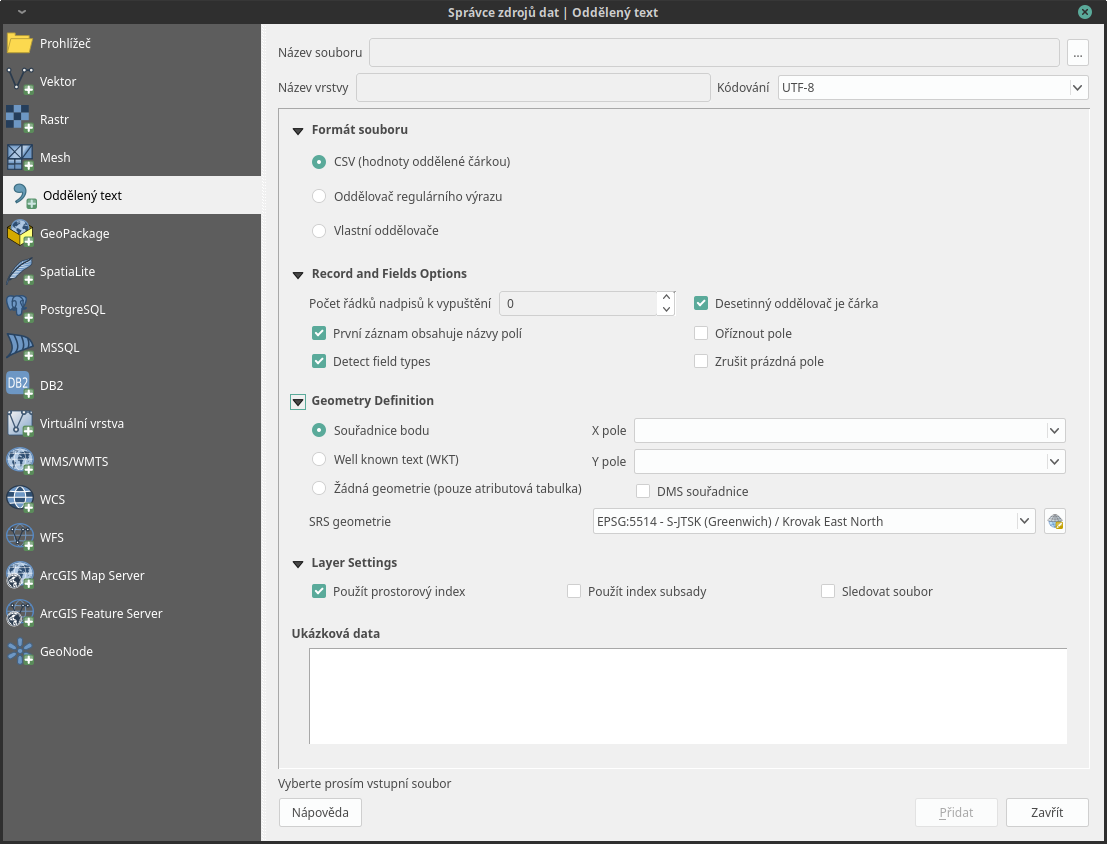
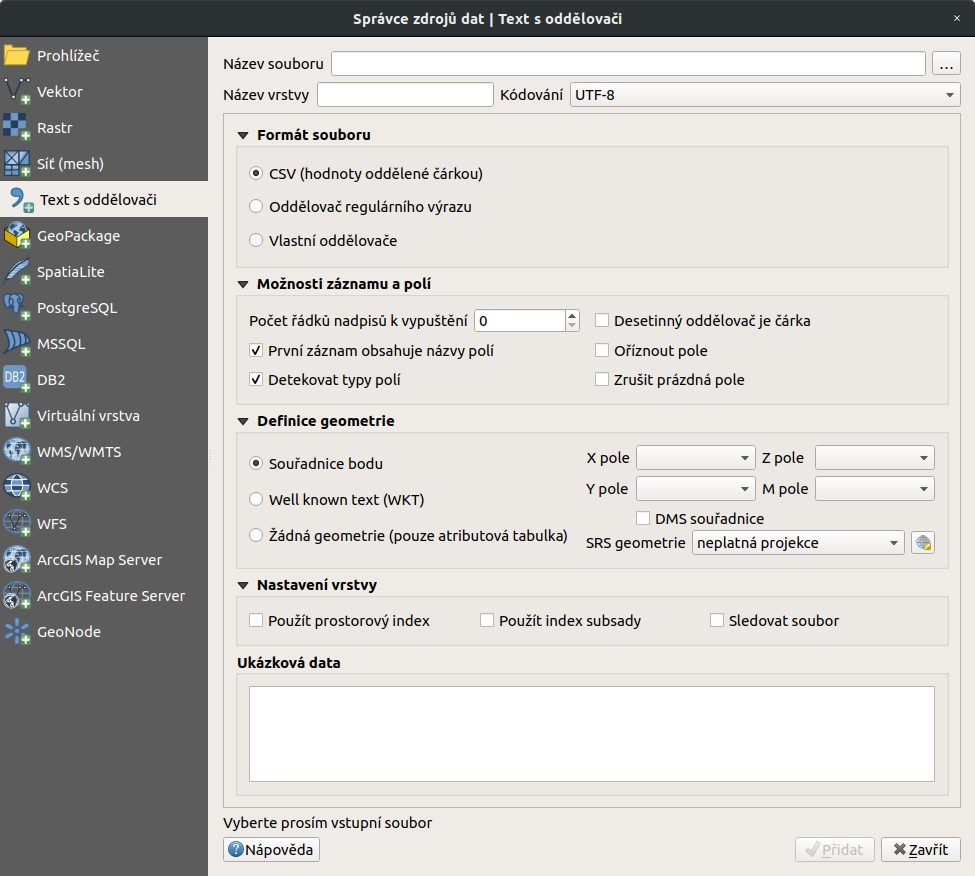
update and fixes:3_10 xy

Changed region(s): [[0.0, 0.0, 1.0, 1.0], [0.4923, 0.6777, 0.6462, 0.7393], [0.7385, 0.6777, 0.8615, 0.7393]]

diff --git a/vektorova_data/import_delim.rst b/vektorova_data/import_delim.rst
@@ -94,8 +94,6 @@ vrstvu s odděleným textem`.
 - :item:`Název vrstvy` - název nově vzniklé vrstvy
 - :item:`Formát souboru` |radiobuttonon| - vybereme typ oddělení hodnot
   v textovém souboru
-- :item:`Kódování` |selectstring| - vybereme kódování textu
-
 
     - |radiobuttonon| :sup:`CSV (hodnoty oddělené čárkou)` - standardní
       .csv soubor s hodnotami oddělenými čárkou
@@ -104,30 +102,29 @@ vrstvu s odděleným textem`.
     - |radiobuttonon| :sup:`Vlastní oddělovače` - výběr libovolného
       oddělovače
 
-- :item:`Možnost záznamu`
+- :item:`Kódování` |selectstring| - vybereme kódování textu
+- :item:`Možnosti záznamu a polí`
 
-    - :item:`Počet řádků k vypuštění` |selectnumber| - vynechá
+    - :item:`Počet řádků nadpisů k vypuštění` |selectnumber| - vynechá
       zadaný počet rádků na začátku
     - |checkbox| :item:`První záznam obsahuje názvy polí` - zaškrtneme,
       pokud máme v tabulce jako první řádek názvy sloupců
-
-- :item:`Record and Fields Options`
-
-    - |checkbox| :option:`Oříznout pole` - smaže přebytečné mezery v
-      datech např. na konci nebo začátku záznamu
-    - |checkbox| :option:`Zrušit prázdná pole` - odstraní prázdné sloupce
+    - |checkbox| :option:`Detekovat typy polí` - detekuje datový typ sloupce
     - |checkbox| :option:`Desetinný oddělovač je čárka` - zaškrtneme,
       pokud v datech nemáme oddělena desetinná čísla tečkou, ale čárkou
       (např. :numref:`xydatacsv`)
-    - |checkbox| :option:`Detect field types` - detekuje datový typ sloupce
+    - |checkbox| :option:`Oříznout pole` - smaže přebytečné mezery v
+      datech např. na konci nebo začátku záznamu
+    - |checkbox| :option:`Zrušit prázdná pole` - odstraní prázdné sloupce
 
-- :item:`Geometry definition`
+- :item:`Definice geometrie`
 
     - |radiobuttonon| :sup:`Souřadnice bodu` - body definovány souřadnicemi
       X a Y (XY Data)
 
-        - :option:`X pole`, `Y pole` |selectstring| - výběr sloupců,
-          ve kterých jsou zapsané souřadnice
+        - :option:`X pole`, :option:`Y pole`  |selectstring| - výběr sloupců,
+          ve kterých jsou zapsané souřadnice. :option:`Z pole`, :option:`M pole`
+          vybíráme, pokud data obsahují hodnoty `Z` a `M`
         - |checkbox| :option:`DMS souřadnice` - zaškrtneme, pokud máme
           souřadnice ve tvaru DMS (degrees-minutes-seconds) - stupně,
           minuty, vteříny
@@ -145,11 +142,12 @@ vrstvu s odděleným textem`.
     - |selectstring| :sup:`SRS geometrie` - souřadnicový systém, ve kterém
       jsou souřadnice uložené
 
-- :item:`Layer settings`
+- :item:`Nastavení vrstvy`
 
     - |checkbox| :option:`Použít prostorový index` - vytvoří prostorový
       index pro rychlejší práci s daty - vhodnější pro objemné soubory
-    - |checkbox| :option:`Použít index subsady` - vytvoří index podmnožiny prvků
+    - |checkbox| :option:`Použít index subsady` - vytvoří index podmnožiny
+      (filtrovaných) prvků
     - |checkbox| :option:`Sledovat soubor` - sledování změn souboru za
       běhu QGIS, při aktualizaci |mActionRefresh| se projeví změny souboru
       (např. přidání dalších dat do řádků) ve vrstvě
